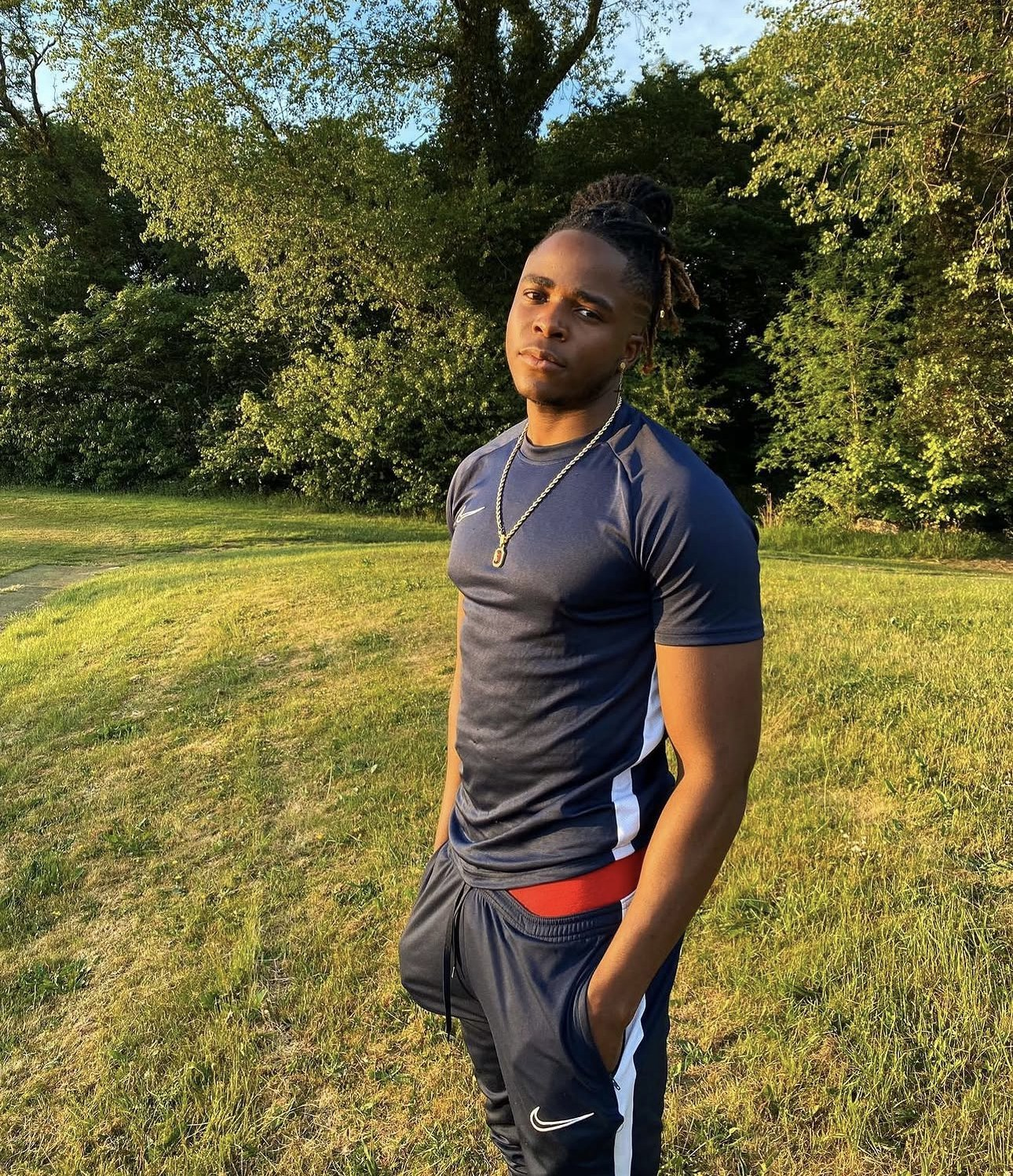
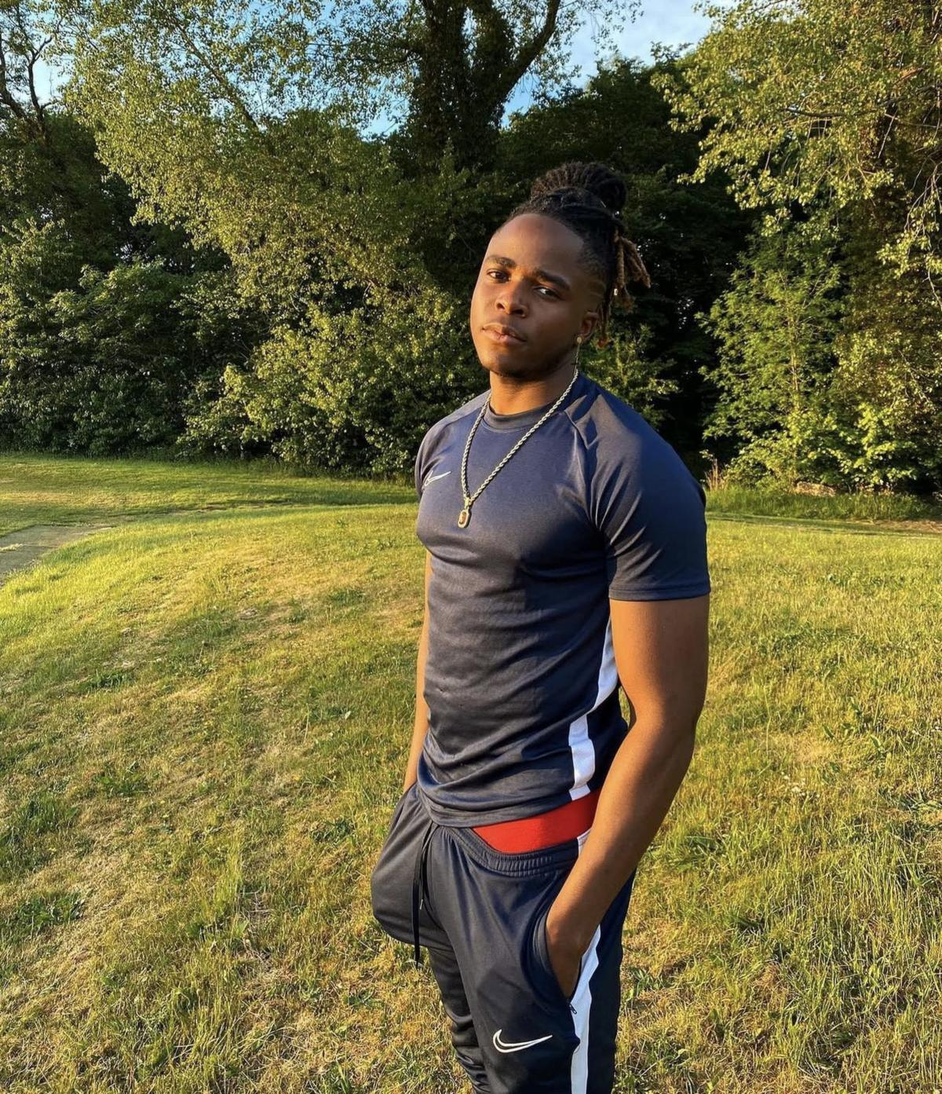
Compress park photo (881 KB to 435 KB)
Resized to 1200px wide with light smoothing; updated width/height
attributes in index.html and light.html.

diff --git a/index.html b/index.html
@@ -478,7 +478,7 @@ ul,ol{padding:0;list-style:none}
 <section class="section about" id="about" aria-labelledby="about-title">
   <div class="wrap about-grid">
     <figure class="about-photo rv">
-      <img src="assets/coach-park.jpg" alt="Your coach outdoors in a park" width="1290" height="1497" loading="lazy" decoding="async">
+      <img src="assets/coach-park.jpg" alt="Your coach outdoors in a park" width="1200" height="1393" loading="lazy" decoding="async">
       <figcaption>Founder</figcaption>
     </figure>
     <div class="about-text">

diff --git a/light.html b/light.html
@@ -287,7 +287,7 @@ details[open] .pm::after{transform:rotate(0)}
 <!-- 1. HERO -->
 <section class="hero" aria-labelledby="hero-h">
   <div class="hero__media">
-    <img src="assets/coach-park.jpg" alt="Your coach outdoors in a park at golden hour" width="1290" height="1497" fetchpriority="high">
+    <img src="assets/coach-park.jpg" alt="Your coach outdoors in a park at golden hour" width="1200" height="1393" fetchpriority="high">
     <span class="hero__tag">Built for home. Minimal kit.</span>
   </div>
   <div class="hero__body">
